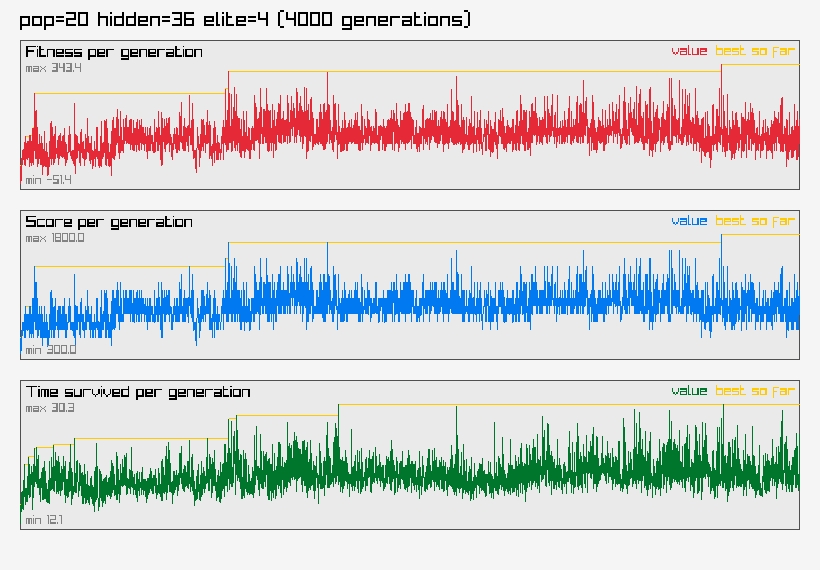
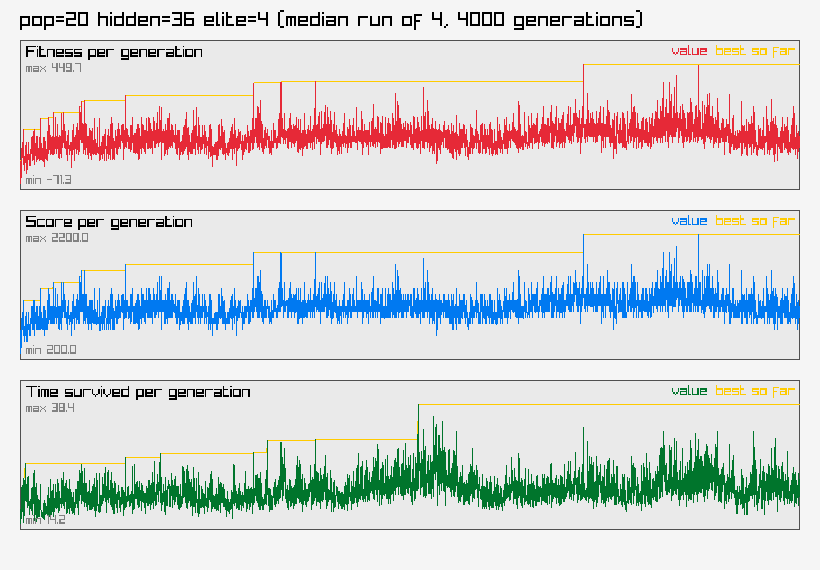
Repeated runs

diff --git a/ParameterSweep.cpp b/ParameterSweep.cpp
@@ -54,7 +54,10 @@ SweepOptions ParseSweepOptions(int argc, char **argv)
             options.mutationRate = (float)std::atof(valueAfter("--mutation-rate=").c_str());
         else if (arg.rfind("--mutation-strength=", 0) == 0)
             options.mutationStrength = (float)std::atof(valueAfter("--mutation-strength=").c_str());
+        else if (arg.rfind("--repeats=", 0) == 0)
+            options.repeatCount = std::atoi(valueAfter("--repeats=").c_str());
     }
+    options.repeatCount = std::max(1, options.repeatCount);
     return options;
 }
 
@@ -102,48 +105,57 @@ struct SweepRunResult
     double trainSeconds;
 };
 
-// Runs every config's training on a pool of worker threads (dynamically
-// pulling the next untaken config off a shared counter, since bigger
-// populations take far longer than smaller ones and static split-in-half
-// assignment would leave threads idle). Nothing here touches raylib's
-// rendering/GL calls — SimulateStep and CreateEvolution are plain CPU work —
-// so this stays safe without a window/GL context on the worker threads.
-static void RunConfigsInParallel(const std::vector<SweepConfig> &configs, int generationBudget,
-                                  int screenWidth, int screenHeight, std::vector<SweepRunResult> &results)
+// Runs every (config, repeat) pair on a pool of worker threads, pulling the
+// next untaken task off a shared counter — flattening repeats into the same
+// work queue as configs (rather than looping repeats per-config) keeps big
+// and small configs' repeats interleaved, so a handful of slow pop=80 runs
+// can't strand idle threads while everything else already finished.
+// Nothing here touches raylib's rendering/GL calls — SimulateStep and
+// CreateEvolution are plain CPU work — so this stays safe with no window/GL
+// context on the worker threads.
+static void RunConfigsInParallel(const std::vector<SweepConfig> &configs, int generationBudget, int repeatCount,
+                                  int screenWidth, int screenHeight,
+                                  std::vector<std::vector<SweepRunResult>> &resultsByConfig)
 {
+    size_t taskCount = configs.size() * (size_t)repeatCount;
     unsigned int threadCount = std::thread::hardware_concurrency();
     if (threadCount == 0)
         threadCount = 1;
-    threadCount = (unsigned int)std::min((size_t)threadCount, configs.size());
-    printf("Running %zu configs across %u worker threads...\n", configs.size(), threadCount);
+    threadCount = (unsigned int)std::min((size_t)threadCount, taskCount);
+    printf("Running %zu configs x %d repeats = %zu runs across %u worker threads...\n",
+           configs.size(), repeatCount, taskCount, threadCount);
 
-    std::atomic<size_t> nextIndex{0};
+    std::atomic<size_t> nextTask{0};
     std::atomic<size_t> completedCount{0};
     std::mutex printMutex;
 
     auto worker = [&]()
     {
-        size_t i;
-        while ((i = nextIndex.fetch_add(1)) < configs.size())
+        size_t task;
+        while ((task = nextTask.fetch_add(1)) < taskCount)
         {
+            size_t configIndex = task / (size_t)repeatCount;
+            size_t repeatIndex = task % (size_t)repeatCount;
+
             // steady_clock is a monotonic wall-clock timer, so this measures
-            // real elapsed time for THIS config specifically, regardless of
-            // how many other configs are training concurrently on other
-            // threads — a CPU-time clock would double-count across threads
-            // and misreport how long the batch actually took.
+            // real elapsed time for THIS run specifically, regardless of how
+            // many other runs are training concurrently on other threads —
+            // a CPU-time clock would double-count across threads and
+            // misreport how long any of this actually took.
             auto start = std::chrono::steady_clock::now();
-            Evolution evolution = RunSweepConfig(configs[i], generationBudget, screenWidth, screenHeight);
+            Evolution evolution = RunSweepConfig(configs[configIndex], generationBudget, screenWidth, screenHeight);
             auto end = std::chrono::steady_clock::now();
 
-            results[i].evolution = std::move(evolution);
-            results[i].trainSeconds = std::chrono::duration<double>(end - start).count();
+            SweepRunResult &slot = resultsByConfig[configIndex][repeatIndex];
+            slot.evolution = std::move(evolution);
+            slot.trainSeconds = std::chrono::duration<double>(end - start).count();
 
             size_t doneSoFar = completedCount.fetch_add(1) + 1;
-            std::string label = SweepConfigLabel(configs[i]);
+            std::string label = SweepConfigLabel(configs[configIndex]);
             std::lock_guard<std::mutex> lock(printMutex);
-            printf("[%zu/%zu] %s done in %.1fs bestFitness=%.1f bestScore=%d bestTime=%.1f\n",
-                   doneSoFar, configs.size(), label.c_str(), results[i].trainSeconds,
-                   results[i].evolution.bestFitnessEver, results[i].evolution.bestScoreEver, results[i].evolution.bestTimeEver);
+            printf("[%zu/%zu] %s run %zu/%d done in %.1fs bestFitness=%.1f bestScore=%d bestTime=%.1f\n",
+                   doneSoFar, taskCount, label.c_str(), repeatIndex + 1, repeatCount, slot.trainSeconds,
+                   slot.evolution.bestFitnessEver, slot.evolution.bestScoreEver, slot.evolution.bestTimeEver);
         }
     };
 
@@ -155,11 +167,81 @@ static void RunConfigsInParallel(const std::vector<SweepConfig> &configs, int ge
         w.join();
 }
 
+static float Median(std::vector<float> values)
+{
+    std::sort(values.begin(), values.end());
+    size_t n = values.size();
+    return (n % 2 == 1) ? values[n / 2] : (values[n / 2 - 1] + values[n / 2]) / 2.0f;
+}
+
+static float Mean(const std::vector<float> &values)
+{
+    float sum = 0.0f;
+    for (float v : values)
+        sum += v;
+    return sum / (float)values.size();
+}
+
+// Aggregated view of one config's repeated runs. bestFitnessEver is already
+// a running-max over thousands of episodes within a single run, so it's
+// inherently prone to capturing one lucky episode — the median across
+// repeats resists that the same way; the mean is reported alongside so a
+// config whose mean and median diverge a lot (i.e. it's outlier-prone) is
+// visible rather than hidden.
+struct ConfigSummary
+{
+    SweepConfig config;
+    int generationsCompleted;
+    float medianFitness, meanFitness;
+    int medianScore;
+    float meanScore;
+    float medianTime, meanTime;
+    double totalTrainSeconds;
+    size_t representativeRepeat; // which repeat's graph gets exported
+};
+
+static ConfigSummary SummarizeConfig(const SweepConfig &config, const std::vector<SweepRunResult> &repeats)
+{
+    std::vector<float> fitnesses, scores, times;
+    double totalTrainSeconds = 0.0;
+    for (const auto &r : repeats)
+    {
+        fitnesses.push_back(r.evolution.bestFitnessEver);
+        scores.push_back((float)r.evolution.bestScoreEver);
+        times.push_back(r.evolution.bestTimeEver);
+        totalTrainSeconds += r.trainSeconds;
+    }
+
+    // The "representative" run for the exported graph: whichever repeat's
+    // fitness sits at (or just below, for an even count) the median, so the
+    // graph shown actually matches a real run rather than an averaged one.
+    std::vector<size_t> order(repeats.size());
+    for (size_t i = 0; i < order.size(); i++)
+        order[i] = i;
+    std::sort(order.begin(), order.end(), [&](size_t a, size_t b)
+              { return fitnesses[a] < fitnesses[b]; });
+    size_t representativeRepeat = order[(order.size() - 1) / 2];
+
+    ConfigSummary summary;
+    summary.config = config;
+    summary.generationsCompleted = repeats[representativeRepeat].evolution.generation - 1;
+    summary.medianFitness = Median(fitnesses);
+    summary.meanFitness = Mean(fitnesses);
+    summary.medianScore = (int)std::round(Median(scores));
+    summary.meanScore = Mean(scores);
+    summary.medianTime = Median(times);
+    summary.meanTime = Mean(times);
+    summary.totalTrainSeconds = totalTrainSeconds;
+    summary.representativeRepeat = representativeRepeat;
+    return summary;
+}
+
 void RunParameterSweep(const SweepOptions &options)
 {
     const int screenWidth = 800;
     const int screenHeight = 600;
     const int generationBudget = options.generationBudget;
+    const int repeatCount = options.repeatCount;
     const char *imageDir = "sweep_images";
 
     std::vector<SweepConfig> configs = BuildSweepConfigs(options);
@@ -170,19 +252,25 @@ void RunParameterSweep(const SweepOptions &options)
     printf("] hidden=[");
     for (size_t i = 0; i < options.hiddenSizes.size(); i++)
         printf("%s%d", i == 0 ? "" : ",", options.hiddenSizes[i]);
-    printf("] generations=%d eliteRatio=%.2f mutationRate=%.2f mutationStrength=%.2f (%zu configs)\n",
-           options.generationBudget, options.eliteRatio, options.mutationRate, options.mutationStrength, configs.size());
+    printf("] generations=%d repeats=%d eliteRatio=%.2f mutationRate=%.2f mutationStrength=%.2f (%zu configs)\n",
+           options.generationBudget, repeatCount, options.eliteRatio, options.mutationRate, options.mutationStrength,
+           configs.size());
 
     mkdir(imageDir, 0755);
 
-    // Train every config in parallel first — this is pure CPU work with no
-    // GL calls, so it needs no window at all. The window only gets opened
-    // afterward, for the (GL-only-safe-on-one-thread) image export pass.
+    // Train every (config, repeat) in parallel first — this is pure CPU work
+    // with no GL calls, so it needs no window at all. The window only gets
+    // opened afterward, for the (GL-only-safe-on-one-thread) image export.
     auto sweepStart = std::chrono::steady_clock::now();
-    std::vector<SweepRunResult> results(configs.size());
-    RunConfigsInParallel(configs, generationBudget, screenWidth, screenHeight, results);
+    std::vector<std::vector<SweepRunResult>> resultsByConfig(configs.size(), std::vector<SweepRunResult>(repeatCount));
+    RunConfigsInParallel(configs, generationBudget, repeatCount, screenWidth, screenHeight, resultsByConfig);
     double totalSweepSeconds = std::chrono::duration<double>(std::chrono::steady_clock::now() - sweepStart).count();
     printf("All configs trained in %.1fs total (wall clock)\n", totalSweepSeconds);
+
+    std::vector<ConfigSummary> summaries;
+    summaries.reserve(configs.size());
+    for (size_t i = 0; i < configs.size(); i++)
+        summaries.push_back(SummarizeConfig(configs[i], resultsByConfig[i]));
 
     // A hidden window is still needed for the offscreen render texture used
     // to export graph images — nothing is ever actually shown.
@@ -197,46 +285,42 @@ void RunParameterSweep(const SweepOptions &options)
         CloseWindow();
         return;
     }
-    fprintf(out, "%-6s %-6s %-6s %-8s %-8s | %-9s %-10s %-9s %-10s %-10s\n",
-            "pop", "hidden", "elite", "mutRate", "mutStr", "gens", "bestFit", "bestScr", "bestTime", "trainSec");
+    fprintf(out, "%-6s %-6s %-6s %-8s %-8s %-8s | %-9s %-10s %-10s %-10s %-10s %-10s %-10s %-10s\n",
+            "pop", "hidden", "elite", "mutRate", "mutStr", "repeats", "gens",
+            "medFit", "avgFit", "medScore", "avgScore", "medTime", "avgTime", "totalSec");
     fflush(out);
 
     struct ReadmeRow
     {
-        SweepConfig config;
+        ConfigSummary summary;
         std::string imagePath;
-        int generationsCompleted;
-        float bestFitnessEver;
-        int bestScoreEver;
-        float bestTimeEver;
-        double trainSeconds;
     };
     std::vector<ReadmeRow> readmeRows;
 
     for (size_t i = 0; i < configs.size(); i++)
     {
         const SweepConfig &config = configs[i];
-        const Evolution &evolution = results[i].evolution;
-        double trainSeconds = results[i].trainSeconds;
+        const ConfigSummary &summary = summaries[i];
         std::string label = SweepConfigLabel(config);
-        int generationsCompleted = evolution.generation - 1;
 
-        fprintf(out, "%-6d %-6d %-6d %-8.2f %-8.2f | %-9d %-10.1f %-9d %-10.1f %-10.1f\n",
+        fprintf(out, "%-6d %-6d %-6d %-8.2f %-8.2f %-8d | %-9d %-10.1f %-10.1f %-10d %-10.1f %-10.1f %-10.1f %-10.1f\n",
                 config.populationSize, config.hiddenSize, config.eliteCount,
-                config.mutationRate, config.mutationStrength,
-                generationsCompleted, evolution.bestFitnessEver, evolution.bestScoreEver, evolution.bestTimeEver,
-                trainSeconds);
+                config.mutationRate, config.mutationStrength, repeatCount,
+                summary.generationsCompleted, summary.medianFitness, summary.meanFitness,
+                summary.medianScore, summary.meanScore, summary.medianTime, summary.meanTime,
+                summary.totalTrainSeconds);
         fflush(out);
 
         std::string imagePath = std::string(imageDir) + "/" + label + ".png";
         std::string title = "pop=" + std::to_string(config.populationSize) +
                              " hidden=" + std::to_string(config.hiddenSize) +
                              " elite=" + std::to_string(config.eliteCount) +
-                             " (" + std::to_string(generationsCompleted) + " generations)";
-        ExportGenerationHistoryImage(evolution, title.c_str(), imagePath.c_str());
+                             " (median run of " + std::to_string(repeatCount) +
+                             ", " + std::to_string(summary.generationsCompleted) + " generations)";
+        const Evolution &representativeEvolution = resultsByConfig[i][summary.representativeRepeat].evolution;
+        ExportGenerationHistoryImage(representativeEvolution, title.c_str(), imagePath.c_str());
 
-        readmeRows.push_back({config, imagePath, generationsCompleted,
-                               evolution.bestFitnessEver, evolution.bestScoreEver, evolution.bestTimeEver, trainSeconds});
+        readmeRows.push_back({summary, imagePath});
     }
 
     fclose(out);
@@ -250,9 +334,9 @@ void RunParameterSweep(const SweepOptions &options)
         fprintf(readme, "## Usage\n\n");
         fprintf(readme, "```\n");
         fprintf(readme, "make dev    # build and play the game interactively\n");
-        fprintf(readme, "make sweep  # run this parameter sweep (override with ARGS=\"--populations=20,40 --hidden=12,24 --generations=4000\")\n");
+        fprintf(readme, "make sweep  # run this parameter sweep (override with ARGS=\"--populations=20,40 --hidden=12,24 --generations=4000 --repeats=4\")\n");
         fprintf(readme, "```\n\n");
-        fprintf(readme, "Each configuration below trained for %d generations. ", generationBudget);
+        fprintf(readme, "Each configuration below trained %d times for %d generations each. ", repeatCount, generationBudget);
         fprintf(readme, "populations=[");
         for (size_t i = 0; i < options.populationSizes.size(); i++)
             fprintf(readme, "%s%d", i == 0 ? "" : ",", options.populationSizes[i]);
@@ -261,21 +345,27 @@ void RunParameterSweep(const SweepOptions &options)
             fprintf(readme, "%s%d", i == 0 ? "" : ",", options.hiddenSizes[i]);
         fprintf(readme, "] eliteRatio=%.2f mutationRate=%.2f mutationStrength=%.2f\n\n",
                 options.eliteRatio, options.mutationRate, options.mutationStrength);
-        fprintf(readme, "Trained in %.1fs total (wall clock, running configs in parallel across CPU threads).\n\n",
+        fprintf(readme, "Trained in %.1fs total (wall clock, running all configs/repeats in parallel across CPU threads).\n\n",
                 totalSweepSeconds);
-        fprintf(readme, "| Population | Hidden | Elites | Generations | Best Fitness | Best Score | Best Time | Train Time (s) |\n");
-        fprintf(readme, "|---|---|---|---|---|---|---|---|\n");
+        fprintf(readme, "Median is the primary ranking column — `bestFitness` is already a running-max over thousands of "
+                         "episodes within one run, so a single lucky episode can inflate it; the median across repeats "
+                         "resists that better than the mean does. Mean is shown alongside so an outlier-prone config "
+                         "(mean and median far apart) is visible rather than hidden.\n\n");
+        fprintf(readme, "| Population | Hidden | Elites | Repeats | Generations | Median Fitness | Mean Fitness | "
+                         "Median Score | Mean Score | Median Time | Mean Time | Total Train Time (s) |\n");
+        fprintf(readme, "|---|---|---|---|---|---|---|---|---|---|---|---|\n");
         for (const auto &row : readmeRows)
         {
-            fprintf(readme, "| %d | %d | %d | %d | %.1f | %d | %.1f | %.1f |\n",
-                    row.config.populationSize, row.config.hiddenSize, row.config.eliteCount,
-                    row.generationsCompleted, row.bestFitnessEver, row.bestScoreEver, row.bestTimeEver,
-                    row.trainSeconds);
+            const ConfigSummary &s = row.summary;
+            fprintf(readme, "| %d | %d | %d | %d | %d | %.1f | %.1f | %d | %.1f | %.1f | %.1f | %.1f |\n",
+                    s.config.populationSize, s.config.hiddenSize, s.config.eliteCount, repeatCount,
+                    s.generationsCompleted, s.medianFitness, s.meanFitness, s.medianScore, s.meanScore,
+                    s.medianTime, s.meanTime, s.totalTrainSeconds);
         }
         fprintf(readme, "\n");
         for (const auto &row : readmeRows)
         {
-            std::string label = SweepConfigLabel(row.config);
+            std::string label = SweepConfigLabel(row.summary.config);
             fprintf(readme, "## %s\n\n![%s](%s)\n\n", label.c_str(), label.c_str(), row.imagePath.c_str());
         }
         fclose(readme);

diff --git a/ParameterSweep.h b/ParameterSweep.h
@@ -13,10 +13,15 @@ struct SweepOptions
     float eliteRatio = 0.2f;
     float mutationRate = MUTATION_RATE;
     float mutationStrength = MUTATION_STRENGTH;
+    // Each config is trained this many times (different random draws) so a
+    // single lucky/unlucky run can't be mistaken for a config's real merit —
+    // the sweep reports the median (and mean) across the repeats.
+    int repeatCount = 4;
 };
 
 // Recognized flags: --populations=20,40,60  --hidden=12,24  --generations=4000
 //                    --elite-ratio=0.2  --mutation-rate=0.15  --mutation-strength=0.5
+//                    --repeats=4
 SweepOptions ParseSweepOptions(int argc, char **argv);
 
 // Runs every (population size x hidden size) combination back-to-back, each

diff --git a/README.md b/README.md
@@ -4,31 +4,33 @@
 
 ```
 make dev    # build and play the game interactively
-make sweep  # run this parameter sweep (override with ARGS="--populations=20,40 --hidden=12,24 --generations=4000")
+make sweep  # run this parameter sweep (override with ARGS="--populations=20,40 --hidden=12,24 --generations=4000 --repeats=4")
 ```
 
-Each configuration below trained for 4000 generations. populations=[20,40,60,80] hidden=[12,24,36,48] eliteRatio=0.20 mutationRate=0.15 mutationStrength=0.50
+Each configuration below trained 4 times for 4000 generations each. populations=[20,40,60,80] hidden=[12,24,36,48] eliteRatio=0.20 mutationRate=0.15 mutationStrength=0.50
 
-Trained in 873.7s total (wall clock, running configs in parallel across CPU threads).
+Trained in 3806.3s total (wall clock, running all configs/repeats in parallel across CPU threads).
 
-| Population | Hidden | Elites | Generations | Best Fitness | Best Score | Best Time | Train Time (s) |
-|---|---|---|---|---|---|---|---|
-| 20 | 12 | 4 | 4000 | 341.5 | 1800 | 30.4 | 46.4 |
-| 20 | 24 | 4 | 4000 | 369.4 | 1900 | 35.0 | 55.2 |
-| 20 | 36 | 4 | 4000 | 343.4 | 1800 | 30.3 | 64.1 |
-| 20 | 48 | 4 | 4000 | 552.1 | 2600 | 41.5 | 83.1 |
-| 40 | 12 | 8 | 4000 | 1725.1 | 7000 | 104.7 | 362.0 |
-| 40 | 24 | 8 | 4000 | 395.5 | 2000 | 31.7 | 113.9 |
-| 40 | 36 | 8 | 4000 | 652.1 | 3000 | 41.4 | 141.8 |
-| 40 | 48 | 8 | 4000 | 477.8 | 2300 | 35.3 | 163.5 |
-| 60 | 12 | 12 | 4000 | 1756.9 | 7200 | 104.2 | 284.2 |
-| 60 | 24 | 12 | 4000 | 1490.3 | 6200 | 89.4 | 365.7 |
-| 60 | 36 | 12 | 4000 | 997.0 | 4300 | 58.5 | 269.7 |
-| 60 | 48 | 12 | 4000 | 870.6 | 3800 | 52.3 | 282.4 |
-| 80 | 12 | 16 | 4000 | 3463.1 | 13600 | 188.9 | 554.6 |
-| 80 | 24 | 16 | 4000 | 812.7 | 3600 | 53.2 | 264.6 |
-| 80 | 36 | 16 | 4000 | 1490.2 | 6200 | 84.2 | 431.4 |
-| 80 | 48 | 16 | 4000 | 2487.0 | 9900 | 140.7 | 543.1 |
+Median is the primary ranking column — `bestFitness` is already a running-max over thousands of episodes within one run, so a single lucky episode can inflate it; the median across repeats resists that better than the mean does. Mean is shown alongside so an outlier-prone config (mean and median far apart) is visible rather than hidden.
+
+| Population | Hidden | Elites | Repeats | Generations | Median Fitness | Mean Fitness | Median Score | Mean Score | Median Time | Mean Time | Total Train Time (s) |
+|---|---|---|---|---|---|---|---|---|---|---|---|
+| 20 | 12 | 4 | 4 | 4000 | 467.8 | 476.3 | 2250 | 2300.0 | 35.7 | 35.7 | 197.4 |
+| 20 | 24 | 4 | 4 | 4000 | 438.8 | 450.0 | 2150 | 2175.0 | 37.3 | 41.3 | 255.9 |
+| 20 | 36 | 4 | 4 | 4000 | 450.8 | 459.8 | 2200 | 2225.0 | 42.8 | 42.7 | 291.3 |
+| 20 | 48 | 4 | 4 | 4000 | 351.5 | 359.1 | 1800 | 1825.0 | 31.3 | 33.1 | 310.2 |
+| 40 | 12 | 8 | 4 | 4000 | 1358.0 | 1304.5 | 5650 | 5425.0 | 81.2 | 81.3 | 867.0 |
+| 40 | 24 | 8 | 4 | 4000 | 958.9 | 1000.6 | 4150 | 4300.0 | 67.4 | 67.6 | 844.3 |
+| 40 | 36 | 8 | 4 | 4000 | 760.5 | 858.8 | 3400 | 3750.0 | 52.9 | 56.8 | 967.3 |
+| 40 | 48 | 8 | 4 | 4000 | 924.0 | 879.9 | 4000 | 3825.0 | 61.2 | 58.6 | 1148.8 |
+| 60 | 12 | 12 | 4 | 4000 | 1039.2 | 1077.8 | 4450 | 4600.0 | 66.0 | 67.4 | 1063.4 |
+| 60 | 24 | 12 | 4 | 4000 | 1337.5 | 1586.8 | 5550 | 6525.0 | 95.9 | 99.6 | 1681.1 |
+| 60 | 36 | 12 | 4 | 4000 | 1628.9 | 1625.3 | 6650 | 6650.0 | 96.6 | 95.6 | 1966.8 |
+| 60 | 48 | 12 | 4 | 4000 | 1561.7 | 1533.4 | 6400 | 6325.0 | 94.3 | 91.0 | 2202.3 |
+| 80 | 12 | 16 | 4 | 4000 | 4219.1 | 4241.0 | 16500 | 16625.0 | 230.0 | 229.8 | 6277.2 |
+| 80 | 24 | 16 | 4 | 4000 | 2091.2 | 2340.0 | 8400 | 9375.0 | 122.5 | 131.5 | 3723.7 |
+| 80 | 36 | 16 | 4 | 4000 | 1391.1 | 1470.3 | 5750 | 6075.0 | 83.0 | 87.1 | 2463.0 |
+| 80 | 48 | 16 | 4 | 4000 | 2628.3 | 2476.9 | 10400 | 9850.0 | 148.2 | 139.8 | 3295.3 |
 
 ## pop20_hidden12
 
